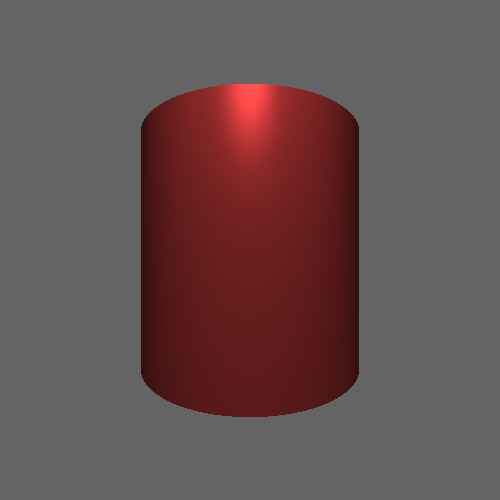
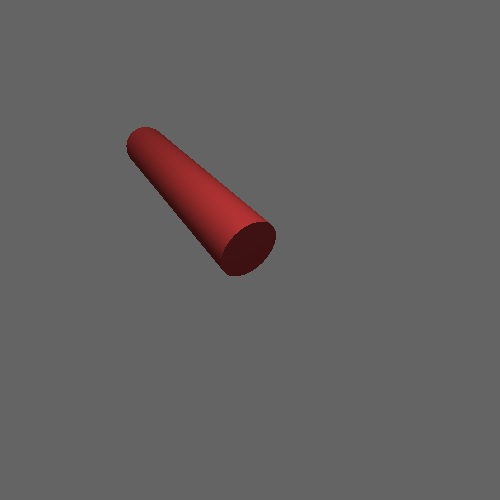
medidas do cilindro

Changed region(s): [[0.24, 0.15, 0.72, 0.84]]

diff --git a/trabalho1-esfera/main.py b/trabalho1-esfera/main.py
@@ -29,12 +29,12 @@ K_e_esfera = Vetor(0.7, 0.2, 0.2)
 objeto_esfera1 = Esfera(centro_esfera, rEsfera, Cor(255, 0, 0),K_d_esfera, K_d_esfera, K_d_esfera, m_esfera)
 #objeto_esfera2 = Esfera(Ponto(10, 0, -(janela['d'] +rEsfera +20)), rEsfera, Cor(0, 255, 0))
 
-rCilindro  = rEsfera
+rCilindro  = rEsfera/3
 m_cilindro = 10
-h_cilindro = 2*rEsfera
-centro_cilindro = Ponto(0, -rEsfera, -100)
-#d_cil = Vetor(-1/math.sqrt(3), 1/math.sqrt(3), -1/math.sqrt(3))
-d_cil = Vetor(0, 1, 0)
+h_cilindro = 3*rEsfera
+centro_cilindro = Ponto(0, 0, -100)
+d_cil = Vetor(-1/math.sqrt(3), 1/math.sqrt(3), -1/math.sqrt(3))
+#d_cil = Vetor(0, 1, 0)
 K_d_cilindro= Vetor(0.2, 0.3, 0.8)
 K_a_cilindro= Vetor(0.2, 0.3, 0.8)
 K_e_cilindro= Vetor(0.2, 0.3, 0.8)
